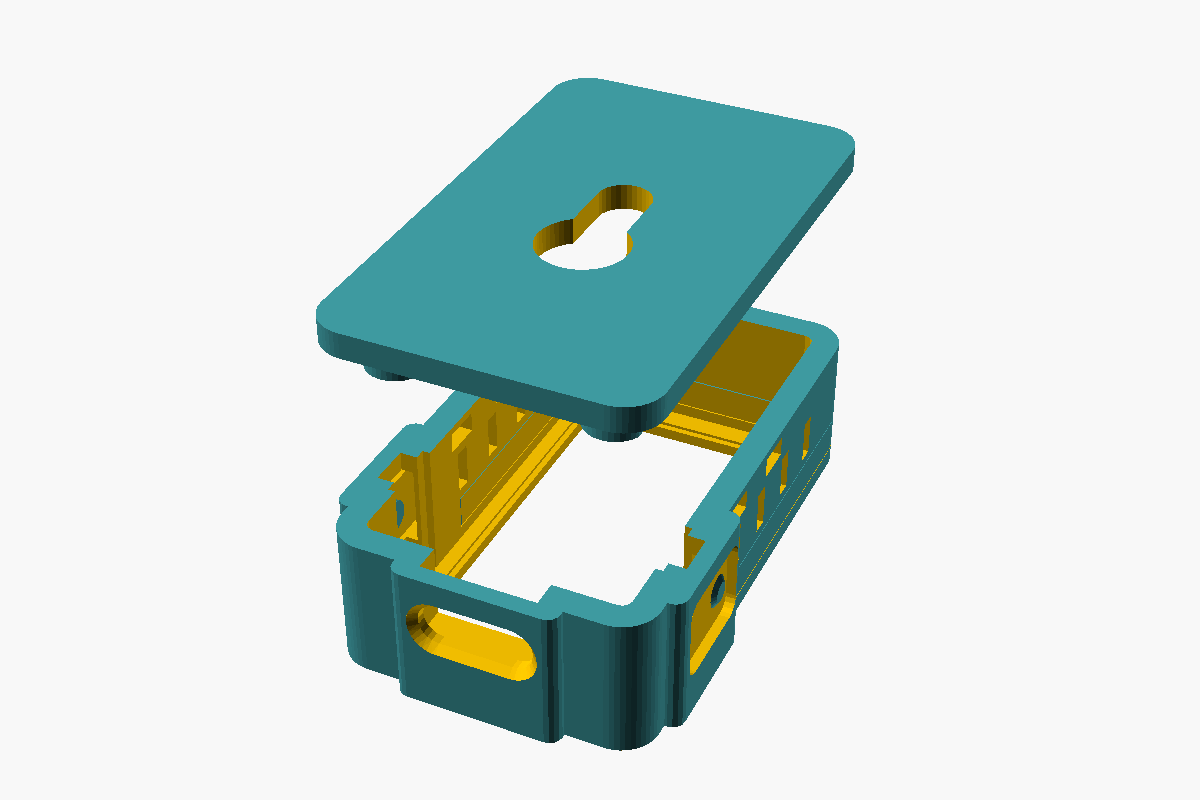
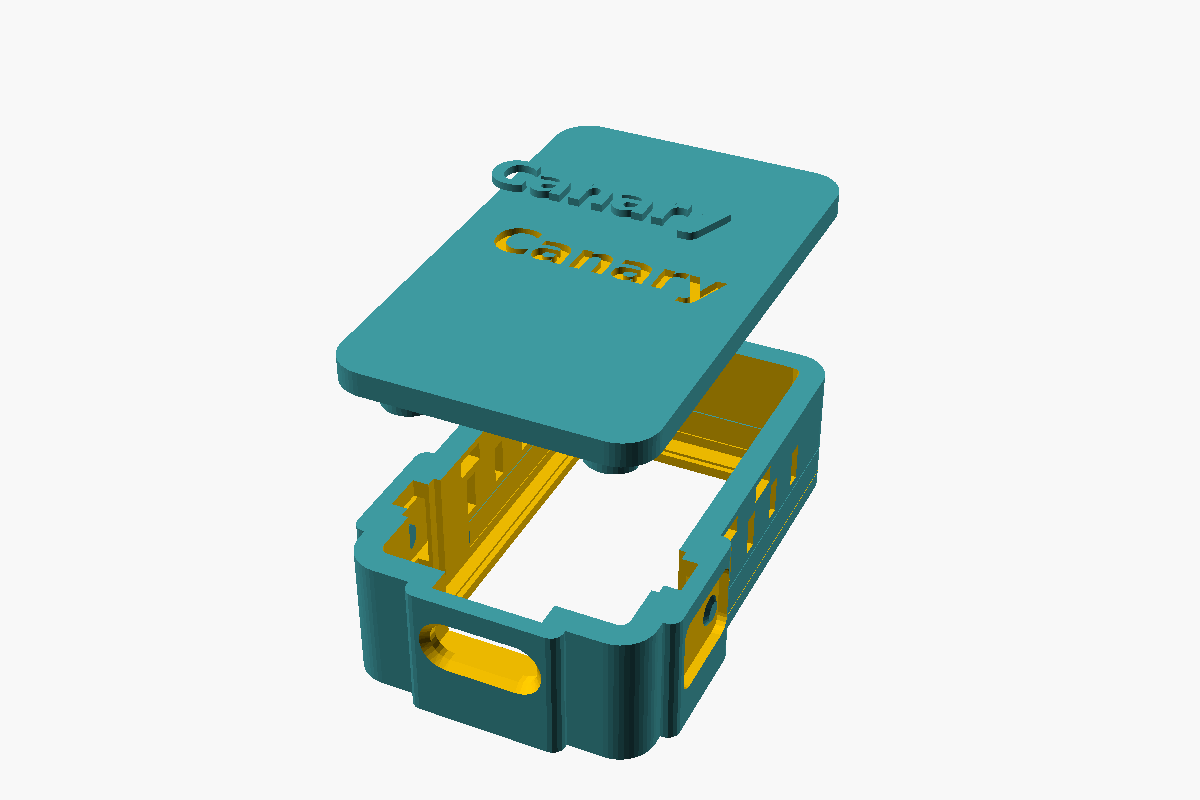
C3 pocket case: the yellow colorway, with the Canary wordmark on the back (#1482)
* C3 case: the yellow colorway, with the Canary wordmark on the back

The case is yellow now and the black moved to the branding. The SLOTS DID
NOT MOVE — they are roles, the same three the hallway stick uses — but the
spools in them did:
    slot 1 BODY  = YELLOW  (bezel and lid both)
    slot 2 MARK  = BLACK   (the wordmark)
    slot 3 LIGHT = WHITE   (the band)
The first three prints ran slot 1 black / slot 2 yellow; 1 and 2 swap.

The lid's back carries "Canary" instead of the keyhole — a trade the owner
asked for, and one the two features force anyway: both want the middle of
that face, so lid_back picks exactly one ("mark" or "keyhole") and the
assert says so rather than letting them overlap into nonsense.

THE BIRD IS NOT ON IT, and that is not an omission. canary_mark_lib.scad
states a MINIMUM SIZE of roughly 30 mm for the mark — it has a C spiralled
into the wing and a V in the tail, and that interior detail closes up below
it. This lid is 25.12 mm across, so it wears the WORDMARK ALONE, which is
what that library's MINIMUM SIZE section prescribes and the same call the
stick's back plate made. The alternative — a second, simplified bird for
small parts — is the one thing that library exists to prevent.

Deboss and inlay come from ONE 2D shape (lid_mark2d) at zero clearance, so
they cannot drift and the AMS fuses them: the band's co-print doctrine,
applied to type. The recess is on the outer face, which prints first layer
[…]

Changed region(s): [[0.2467, 0.0938, 0.7092, 0.9688], [0.4008, 0.9062, 0.4933, 0.9375], [0.3392, 0.875, 0.4008, 0.9062]]

diff --git a/docs/hardware/enclosure/gen_3mf.py b/docs/hardware/enclosure/gen_3mf.py
@@ -5,7 +5,7 @@
     python3 gen_3mf.py coupon     # just the color + fit coupon
     python3 gen_3mf.py frame      # the whole 7" case
     python3 gen_3mf.py stick      # the hallway stick: bezel + band, back + mark
-    python3 gen_3mf.py c3         # the C3 pocket case: bezel + band, yellow lid
+    python3 gen_3mf.py c3         # the C3 pocket case: yellow, branded lid
 
 Renders the parts it needs with OpenSCAD, then writes a single object whose
 volumes are already registered to each other and already assigned to
@@ -121,7 +121,17 @@ QR_COUPON = [("body", "coupon_qr_body", 1, LCD7, {})] + (
 # had none. The .scad fix is `qr_draw` (the coupon carries the symbol whether or
 # not the plate does); this is the second lock, so the next way it breaks is
 # caught by the packager rather than by a printed part that will not scan.
-REQUIRE_ALL = {"QR coupon"}
+# "c3 lid" is here for the same reason, one step removed. Its mark volume is
+# TYPE, and type has a dependency nothing else on these plates has: a font.
+# On a machine without DejaVu Sans, text() yields nothing, the volume renders
+# empty, and the drop-and-carry-on rule would package a blank yellow lid and
+# say "the palette puts no ink on this object" — which reads like a palette
+# decision rather than a missing font. The whole point of this plate is a lid
+# with the brand ON it, so an empty mark is a hard error.
+# (A lid_back="keyhole" build genuinely has no mark. That is a different
+# product configuration and wants its own set — it must not be quietly
+# packaged as the branded one.)
+REQUIRE_ALL = {"QR coupon", "c3 lid"}
 
 # ── The hallway stick (Waveshare ESP32-S3-LCD-1.47) ────────────────────────
 # Two objects, three filaments, and the whole reason it is worth packaging:
@@ -139,12 +149,17 @@ STICK_BACK = [("body", "fil_body", 1, STICK, {}),
               ("mark", "fil_accent", 2, STICK, {})]
 
 # ── The C3 pocket case (Waveshare ESP32-C3-LCD-1.47) ───────────────────────
-# Same palette convention as the stick — slot 1 black, slot 2 yellow, slot 3
-# white — so an operator who has printed one case loads the other without
-# re-learning the spools. Here the yellow is not an inlay but the whole lid:
-# a single-filament object that shares the plate so the case comes off in one
-# job. Only the bezel changes tool (band fuses in at band_clear = 0, the
-# co-print mode the .scad documents — same doctrine as the stick's band).
+# Same ROLE convention as the stick — slot 1 body, slot 2 mark, slot 3 light
+# — so an operator who has printed one case loads the other without
+# re-learning the slots. What changed with the yellow colorway is the SPOOLS
+# in those roles, not the roles:
+#     slot 1 BODY  = YELLOW  (bezel and lid both — the case is yellow)
+#     slot 2 MARK  = BLACK   (the "Canary" wordmark on the lid's back)
+#     slot 3 LIGHT = WHITE   (the band)
+# The first three prints ran slot 1 BLACK / slot 2 YELLOW; slots 1 and 2 now
+# swap spools. Both objects are two-color now: the bezel's band fuses in and
+# the lid's wordmark fills its deboss, both at zero clearance — the co-print
+# doctrine the .scad documents for the band, applied to type as well.
 #
 # headers="pillars" is pinned on every volume: the plate prints the case for
 # the board AS WAVESHARE SHIPS IT (brass corner pillars on, headers not
@@ -156,7 +171,8 @@ C3 = "canary_c3_lcd147.scad"
 C3_BEZEL = [("body", "bezel", 1, C3, {"headers": '"pillars"'}),
             ("band", "light", 3, C3, {"headers": '"pillars"',
                                       "band_clear": "0"})]
-C3_LID = [("lid", "lid", 2, C3, {"headers": '"pillars"'})]
+C3_LID = [("lid", "lid", 1, C3, {"headers": '"pillars"'}),
+          ("mark", "mark", 2, C3, {"headers": '"pillars"'})]
 
 # A "set" is a list of OBJECTS. Each object is (name, volumes, plate center).
 # Volumes within one object are parts of it and stay registered to each other;

diff --git a/canary-local/tools/gen_enclosures.py b/canary-local/tools/gen_enclosures.py
@@ -733,6 +733,13 @@ OPTION_ENUM_PARAMS = {
     # vanished from the workshop instead of gaining two settings. They are
     # exactly the kind of choice a buyer makes, so they are named here.
     "bezel_color", "vent_ring_color", "qr_style",
+    # C3 pocket case: what the lid's back carries — the Canary wordmark or
+    # the keyhole mount. Same trap as vent_ring_color above, sprung a second
+    # time: this replaced a bool (opt_keyhole) with a string enum, and the
+    # control disappeared from the workshop rather than becoming two
+    # settings. A buyer choosing "branded back" over "hangs on a screw" is
+    # exactly the kind of choice this set is for.
+    "lid_back",
 }
 ENGINEERING_OPTIONS = {
     "lid_ribs", "kh_lock", "hinge_teeth", "bracket_tripod", "screw_insert",

diff --git a/docs/hardware/enclosure/README.md b/docs/hardware/enclosure/README.md
@@ -157,7 +157,7 @@ measurements welcome.
 | **Dashboard display case** — Waveshare ESP32-S3-Touch-LCD-4.3 (the [display research](../display_research.md) step-up dashboard): face-down bezel frame, vented screw-on back that **clicks onto a wall cradle** ([`canary_cradle_lib.scad`](./canary_cradle_lib.scad) — two rigid T-studs carry it, two sprung clips hold the bottom, pull it off for service), free-standing 25° desk cradle. v0.2 retires the old back pattern: a 75 mm M4 pair on one centerline crossed with two keyholes on the other made an X of four holes and two fastener systems, which the dock replaces with one plate and two screws. Panel dims are NOMINAL — measure yours | glass drops in, bezel lip 2.5 | <img src="./preview_dev_dash.png" width="230"> | [`canary_dash_display.scad`](./canary_dash_display.scad) |
 | **S3 hallway stick case** — Waveshare **ESP32-S3-LCD-1.47** (the USB-A STICK, not the C6 header board). The hallway nightlight body: plugs into a wall adapter, the 172x320 glass faces the corridor, and the WS2812 leaves through a **lit white seam** down both long walls. Screwless — four cantilever beams cut into the bezel wall, sized by strain (ε printed at render, PETG budget 1.8%), with ASYMMETRIC return angles: steep at the plug end so it never lets go, shallow at the far end so a thumb pops it for the microSD. The plug end is the whole design problem: the opening is a RECTANGLE (series-A is not a stadium — that is USB-C), the wall is thin and relieved so a recessed receptacle clears it, an assert fails the render if under 11 mm of insertion length survives, and the drop buttress reaches INWARD (outward would eat the very length it protects). The RGB does **not** fire backwards — Waveshare's "clear acrylic sandwich panel" is the tell, the LED glows out the edge gap between the LCD module and the PCB — so the light gets a **seam** along the side walls at exactly that band rather than a hole in the back, which frees the back for the mark. The seam is filled with **unfilled white PETG**, a light pipe rather than a slot, and its x span is derived from the cavity face and asserted: the first version stopped 0.65 mm short and would have shipped a light pipe with no light in it. The side elevation reads 1 mm black / 3 mm white / black. Ties are hidden ribs in the inner 1.2 mm of the wall, so the white line is unbroken and each side presses in as ONE strip. No vents — the case is 8.2 mm of measured stack in a 9.2 mm shell, and the thumb scoop to the USB opening is the airway. Black PETG, yellow mark, white band | screwless snap, thumb-release, 3 filaments, `gen_3mf.py stick` | <img src="./preview_dev_s3_147.png" width="230"> | [`canary_s3_lcd147.scad`](./canary_s3_lcd147.scad) |
 | **C6 display pocket case** — Waveshare **ESP32-C6-LCD-1.47** (portrait), both board builds: `headers="none"` (stripped: no headers, corner pillars removed) or `headers="male"` (as shipped: down-facing pin headers + brass M2 corner pillars — deeper cavity, press bosses land on the pillar tops). Face-down bezel over the active-area window, edge-captured board (no screws into the board), snap-in vented back, blind keyhole. The overhanging BOOT/RST buttons and the USB-C shell (both BACK-mounted — photo-verified) get full-depth insertion channels behind "ear"/"chin" wall bulges, and the USB-C port is a true stadium (full-round ends) sized shell + tolerance. `model="1.47"` is drawn from the Waveshare mechanical drawing; a `"1.69"` preset is parameterised. Heat-escape slots on the sides + a back grille | snap-fit, vented, 2 board builds | <img src="./preview_dev_c6_147.png" width="230"> | [`canary_c6_display.scad`](./canary_c6_display.scad) |
-| **C3 pocket display case** — Waveshare **ESP32-C3-LCD-1.47** (portrait; the C6 sibling's exact outline + panel, plus a TF slot and an RGB LED), three board builds: `headers="pillars"` (the board **as Waveshare ships it** — brass corner pillars on, headers not soldered; the press bosses land on the flat pillar tops and the lid skirt is notched around each pillar), `"none"` (stripped, pillars unscrewed — the shallowest case), or `"male"` (down-facing headers + pillars — deepest, thin skirt clear of the pin rows). Three PETG spools: **black body, yellow snap lid, white light band** — the band does the job of Waveshare's clear-acrylic sandwich. Measured off the hardware: 1 mm behind the glass front, 2.8 mm tall — a U of light up both long walls and across the LED's end wall, tied by hidden inboard ribs so each wall presses in ONE unbroken strip, and the slot's inner face is derived from the cavity and asserted (the stick case's no-black-curtain lesson, kept). The glass is **located, not clamped**: bosses cut to the exact component stack (no preload), and the face touches the panel only on a land over the module border — the innermost 0.5 mm of lip is relieved 0.25 so the window rim never puts a contact line on the glass edge. Full-depth ear/chin insertion channels (BOOT/RST and the USB-C shell all overhang the PCB edges), true-stadium USB-C opening centered on the shell with an outer overmold relief, and a **keyed lid**: the board's M2 pillar pattern is asymmetric, so offered the wrong way round the skirt lands on the USB shell and refuses to close — the error is physical, not a rattle you discover later. Keyhole hangs it USB-down. microSD swaps with the lid off (the slot mouth faces down-board; no wall window could pass a card) | 3 filaments, snap lid, keyed, 3 board builds, `gen_3mf.py c3` | <img src="./preview_dev_c3_147.png" width="230"> | [`canary_c3_lcd147.scad`](./canary_c3_lcd147.scad) |
+| **C3 pocket display case** — Waveshare **ESP32-C3-LCD-1.47** (portrait; the C6 sibling's exact outline + panel, plus a TF slot and an RGB LED), three board builds: `headers="pillars"` (the board **as Waveshare ships it** — brass corner pillars on, headers not soldered; the press bosses span the measured 2.8 mm to land on the flat pillar tops and hold the board against the bezel, and the lid skirt is notched around each pillar), `"none"` (stripped, pillars unscrewed — the shallowest case), or `"male"` (down-facing headers + pillars — deepest, thin skirt clear of the pin rows). Three PETG spools, and the **slots are roles**: slot 1 body = **YELLOW** (bezel and lid both), slot 2 mark = **BLACK**, slot 3 light = **WHITE**. The white does the job of Waveshare's clear-acrylic sandwich: measured off the hardware at 1 mm behind the glass front, 2.8 mm tall, and it is **ONE continuous U** — up both long walls, around both far corners, across the LED's end wall — white through the full wall depth with no ties crossing it. Both earlier cuts are lessons kept: outer-skin webs chop the strip into dashes, inboard ribs put black slats in the light path, and a strip that stops short of the corners goes dark exactly where it turns. The black is the **branding**: the lid's back carries the "Canary" wordmark, debossed and filled at zero clearance so the AMS fuses it. The wordmark alone, not the bird — [`canary_mark_lib.scad`](./canary_mark_lib.scad) states a ~30 mm minimum for the mark's interior detail and this lid is 25.12 mm across. It carries the mark **instead of** the keyhole (`lid_back`); both want the middle of that face. The glass is **located, not clamped**: bosses cut to the exact component stack (no preload), and the face touches the panel only on a land over the module border — the innermost 0.5 mm of lip is relieved 0.25 so the window rim never puts a contact line on the glass edge. BOOT/RST are **printed-in-place flexure paddles**: a press pad cut free by a 0.55 mm slot on three sides, hinged at its USB end, a boss on its back over the actuator — press it with a fingertip, no tool, nothing internal exposed, and the pad sits recessed so a pocket squeeze lands on the ear rim instead. USB-C is a true stadium hugging the shell at ~0.05 mm per side with a **chamfered** rim for the plug's overmold (the recessed ring it replaced left a 0.4 mm floor over the insertion slot and broke out on the first print). **Keyed lid**: the board's M2 pillar pattern is asymmetric, so offered the wrong way round the skirt lands on the USB shell and refuses to close — the error is physical, not a rattle you discover later. Asymmetric snap nubs give it a real click. microSD swaps with the lid off (the slot mouth faces down-board; no wall window could pass a card) | 3 filaments, snap lid, keyed, 3 board builds, `gen_3mf.py c3` | <img src="./preview_dev_c3_147.png" width="230"> | [`canary_c3_lcd147.scad`](./canary_c3_lcd147.scad) |
 | **7″ touch dashboard case** — Waveshare **ESP32-S3-Touch-LCD-7** (7″ 800×480 capacitive touch): the wall/desk slab. Face-down bezel retains the bonded glass over the active-area window; deep vented rear tray carries the PCB on molded M3 standoffs and screws to four **gusseted** outboard M3 corner ears (webbed into the shell — no thin necks). Real convection path (**bottom-wall intake → top-wall exhaust** — print in PETG/ASA, this panel runs hot; the two-part tray adds a ~41 cm² back grille, and the one-piece `frame`'s plate deliberately carries none — see the back-plate section), bottom connector channel + side USB/CAN/RS485/battery slots on the tray. The one-piece `frame` adds a bottom-centered **USB pass-through** plus a matching **side exit** on the microSD's wall (hang the case portrait with that wall down and the cable leaves out the bottom; the leashed blank fills whichever exit is idle) and three **TPU fitments**: a slit wire grommet (strain relief — tugs load the frame, not the board), a captive leashed press-through BOOT/RESET plug whose press towers reach the button caps at the board edge, and a peel-open SD cover that stays attached. Optional 20° desk **dock** for the frame (drop-in slot on tilted seat pads, self-centering keys into the frame's keying slots, landscape **and** portrait — portrait seats on well ribs — open well under the USB port + desk-level cable channel for the power lead, vented back fin, tip-checked both ways — `stand_gauge` proves the slot before the big print). **Print the `gauge` corner pair first** (~16.5 g vs ~158 g) — see the [P2S bring-up](./bambu_p2s_bringup.md#7--print-3--the-7-dashboard). Connector centers and `pcb_h` are NOMINAL — measure yours | glass drops in, lip 10.4, TPU-fitted ports | <img src="./preview_dev_lcd7.png" width="230"> | [`canary_s3_lcd7.scad`](./canary_s3_lcd7.scad) |
 | **1.69″ touch watch-display puck** — Waveshare **ESP32-S3-Touch-LCD-1.69** (rounded-square 240×280 capacitive-touch smartwatch board — S3, IMU, RTC, battery/charger). The bonded glass slab (41.13 × 33.13) overhangs the smaller PCB (37.12 × 29.83) by ~2 mm, so the face lip captures it — no screws (this board has no mount holes). Face-down bezel + snap-in vented back (skirt rides the overhang, 4 nubs, standoffs press the board forward, blind keyhole). USB-C (bottom) + PWR/BOOT/RST (top) + battery/RTC/pin slot (side); side heat slots + back grille; optional 22° cradle. Connector centers NOMINAL — measure yours | snap-fit, vented, edge-captured | <img src="./preview_dev_t169.png" width="230"> | [`canary_s3_touch169.scad`](./canary_s3_touch169.scad) |
 | **Vehicle mount kit** — VHB-taped dash plate with a 10° stud riser + an air-vent louver clip (extruded spring prongs snap over one blade). ⚠ cabins exceed +60 °C: USB power only, ASA, light colors | set `stud_gap` per case (36 = field) | <img src="./preview_dev_veh.png" width="230"> | [`canary_vehicle_mount.scad`](./canary_vehicle_mount.scad) |
